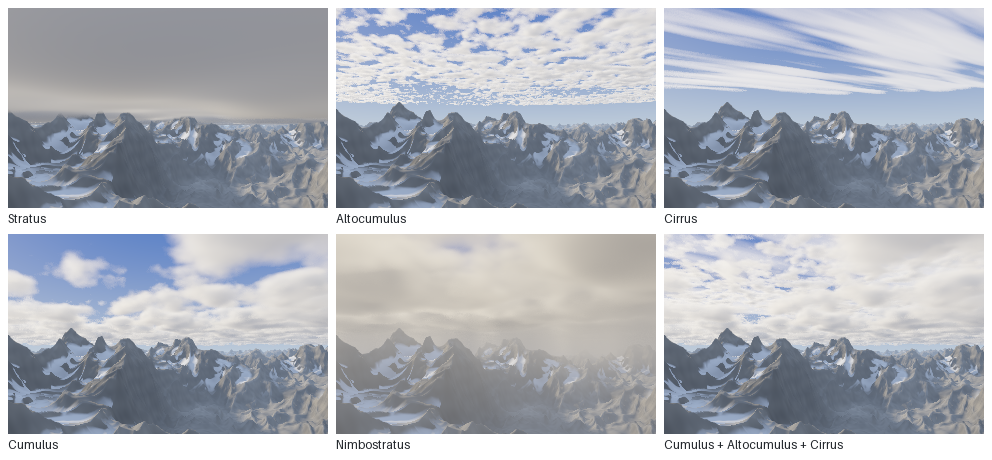
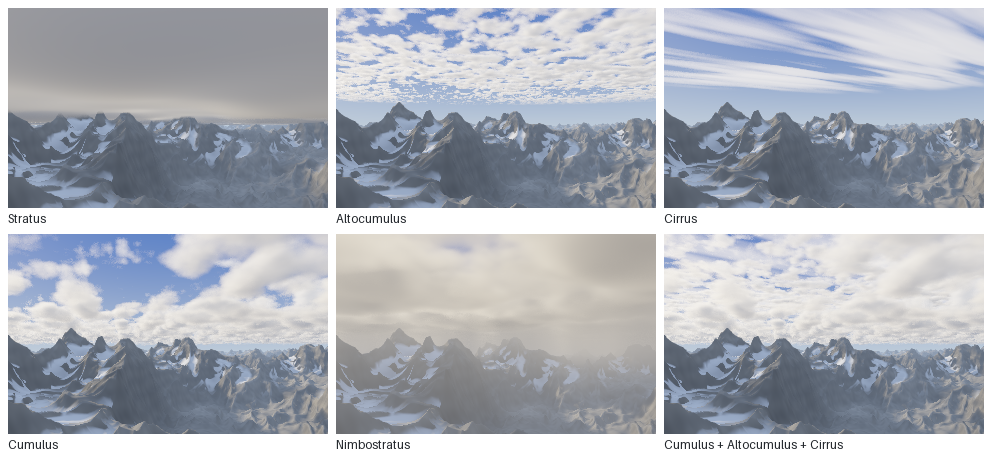
Review fixes: layer shadows on the ground, billow cumulus, horizon fade, overlap check, bind once (#14)
- fc_terrain: with a layer list, cloud shadows come from fc-cloud-shadow
  (every layer); the single layer keeps its old probe.
- /Cumulus uses billow noise, Threshold 0.41 and Gain 12, matched to the
  gallery layer's cover from measured noise statistics.
- Layer lists fade each sample over the last 30% of TMax: no hard line
  where a high layer reaches the end of the march.
- Cirrus drops Shear (it moved streaks along their own length); docs fixed.
- fc-clouds-compile rejects overlapping bands, rain included.
- Layers are compiled to bindings once; the single layer is bound once at
  first use instead of on every fc-density call.
- Shape gets the octave count: x y z oct -> dd.
- Contact sheet re-rendered; alt text and comments fixed.

Claude-Session: https://claude.ai/code/session_01SjY16JjyTvuME1oVQVUxjG

diff --git a/docs/techniques.html b/docs/techniques.html
@@ -365,14 +365,14 @@ haze  = 1 − e^(−depth / HazeDist)        colour = mix(surface, HazeCol, haze
 <h3>Layers and types</h3>
 <p>The sky can hold several layers (<code>CloudLayers</code>, issue #14): a list of presets, <code>[/Cumulus /Altocumulus /Cirrus]</code>, or dicts that start from a preset and override keys. Each layer is the same model with its own band, height profile, noise kind and scale, threshold, coverage, extinction, step count and ambient colours, plus three things the single layer didn't have:</p>
 <ul>
-  <li><strong>Wind and shear.</strong> Before the noise is sampled, the point is turned so <em>x</em> runs along <code>Wind</code>, and shifted along it by <code>Shear</code> per unit of height, so the pattern leans with height. <code>Stretch</code> then scales the three noise coordinates separately. Cirrus uses 0.1 along the wind, so one noise cell becomes a streak ten times longer than it is wide, and a shear of 0.5 so the streaks fall diagonally, the way ice crystals trail below the cloud that made them.</li>
-  <li><strong>Billow noise.</strong> <code>/Noise /Billow</code> folds each octave of value noise, <code>|2n − 1|</code>, before summing: rounded lumps meeting in creases, the cauliflower of a cumulus top. <code>/Value</code>, the smooth fBm, is the default and what the gallery pieces use.</li>
+  <li><strong>Wind and shear.</strong> Before the noise is sampled, the point is turned so <em>x</em> runs along <code>Wind</code>, and shifted along it by <code>Shear</code> world units per unit of height, so the pattern leans with height. <code>Stretch</code> then scales the three noise coordinates separately. Cirrus uses 0.1 along the wind, so one noise cell becomes a streak ten times longer than it is wide. (Shear moves a streak along its own length, so cirrus doesn't use it; it is there for leaning towers.)</li>
+  <li><strong>Billow noise.</strong> <code>/Noise /Billow</code> folds each octave of value noise, <code>|2n − 1|</code>, before summing: rounded lumps meeting in creases, the cauliflower of a cumulus top. The <code>/Cumulus</code> preset uses it. Folded fBm sits lower and spreads wider than plain fBm (mean 0.30 and standard deviation 0.13, against 0.50 and 0.11, measured), so the preset's gain (12) is the gallery layer's scaled by the ratio of the deviations, and its threshold the gallery layer's moved by the same number of deviations (0.38), then raised to 0.41 by eye: the folded noise's long upper tail gave more cover. <code>/Value</code>, the smooth fBm, is the base and what the gallery pieces use.</li>
   <li><strong>Rain.</strong> A layer with <code>Rain</code> above 0 is marched down to that far below its base. There the density is the cloud's a quarter of the way up the band, scaled by <code>RainDens</code> and fading linearly to the ground, so the overcast's thick parts hang vertical shafts beneath them.</li>
 </ul>
-<p>The march (<code>fc-clouds</code>) binds one layer's parameters to plain names, marches the ray through that band, and goes on to the next, carrying the transmittance; a rising ray takes the layers from the lowest up, a falling one from the highest down, and the whole thing stops once under 1% of the light would get through. Nothing is sorted per ray, so the bands must not overlap. Each layer's sun probes look only inside that layer: a cumulus under a thin cirrus is not shaded by it, which is cheap and, for thin upper layers, right enough. With <code>CloudLayers</code> unset, the old single layer is bound from the <code>Cloud*</code> settings and marched exactly as before; the gallery renders are pixel-identical.</p>
-<p>For the ground and for sun shafts, <code>fc-cloud-shadow</code> gives the sunlight reaching a point through every layer above it from one density probe per layer, the estimate the terrain's cloud shadows already use. The terrain itself still takes its shadows from one <code>fc-density</code> probe at the middle of <code>CloudLo</code>–<code>CloudHi</code>, so with a layer list only the layers crossing that height shade the ground; switching it to <code>fc-cloud-shadow</code> is left to a change in <code>fc_terrain.ps</code>.</p>
+<p>The march (<code>fc-clouds</code>) binds one layer's parameters to plain names, marches the ray through that band, and goes on to the next, carrying the transmittance. Each layer's parameters are gathered into a dict of those names once, when the list is compiled, so binding a layer is one <code>def</code> per name; a rising ray takes the layers from the lowest up, a falling one from the highest down, and the whole thing stops once under 1% of the light would get through. Nothing is sorted per ray, so the bands (rain included) must not overlap; compiling checks this. In a layer list each sample's opacity fades linearly over the last 30% of <code>TMax</code>, so a high layer that reaches the edge of the march thins into the sky instead of stopping in a straight line. Each layer's sun probes look only inside that layer: a cumulus under a thin cirrus is not shaded by it, which is cheap and, for thin upper layers, right enough. With <code>CloudLayers</code> unset, the old single layer is bound once from the <code>Cloud*</code> settings and marched exactly as before; the gallery renders are pixel-identical.</p>
+<p>For the ground and for sun shafts, <code>fc-cloud-shadow</code> gives the sunlight reaching a point through every layer above it from one density probe per layer, the estimate the terrain's cloud shadows already used for the single layer. With a layer list the terrain shades the ground with it (the single layer keeps its old probe). Only the direct sun is shaded: under a stratus sheet about 90% of the sunlight is blocked, but the terrain's sky ambient is unchanged, so an overcast darkens the ground only a few percent. Dimming the ambient under cover is a separate change to the terrain's lighting.</p>
 <figure>
-  <img src="techniques/cloud_types.png" alt="Six panels of the same mountain scene: stratus hugging the peaks; small altocumulus cells; streaked cirrus; cumulus; a dark nimbostratus overcast with rain shafts; and all three fair-weather layers at once." loading="lazy">
+  <img src="techniques/cloud_types.png" alt="Six panels of the same mountain scene: a flat grey stratus overcast above the peaks; a field of small altocumulus cells thinning toward the horizon; long diagonal cirrus streaks; billowy cumulus; a dull nimbostratus overcast with faint rain over the far peaks; and cumulus, altocumulus and cirrus together." loading="lazy">
   <figcaption>The presets over <em>Mountains</em> (<code>docs/techniques/cloud_types.ps</code>, 320×200 each): stratus, altocumulus, cirrus, cumulus, nimbostratus, and a layered sky of cumulus, altocumulus and cirrus.</figcaption>
 </figure>
 

diff --git a/docs/settings.md b/docs/settings.md
@@ -98,29 +98,35 @@ preset and overrides some of its keys:
 } ifelse
 ```
 
-The presets are `/Cumulus` (the gallery pieces' layer: 60–88, `Threshold`
-0.57, `CoverAmp` 0.45), `/Stratus`, `/Altocumulus`, `/Cirrus`,
-`/Nimbostratus`, and `/Default`, which is the single layer the `Cloud*`
-settings describe (so `[/Default /Cirrus]` keeps a piece's clouds and adds
+The presets are `/Cumulus` (the gallery pieces' band, 60–88, with billow
+noise: `Noise /Billow`, `Threshold` 0.41, `Gain` 12), `/Stratus`,
+`/Altocumulus`, `/Cirrus`, `/Nimbostratus`, and `/Default`, which is the
+single layer the `Cloud*` settings describe (so `[/Default /Cirrus]` keeps a piece's clouds and adds
 cirrus above them). A dict without `/Type` starts from `/Default`. A
 misspelt preset or key stops the job with an `undefined` error naming it,
 and so does a layer with `Hi` not above `Lo` or with `Steps`, `DensOct` or
 `ShadOct` below 1. The list is compiled the first time a ray needs it: a
-piece that changes `CloudLayers` after that calls `fc-clouds-compile`.
-Layers should not overlap in height: each is marched through its own band,
-and a ray's bands are taken in height order. The sun probes of a layer see
-only that layer, so a layer isn't shaded by another above it.
+piece that changes `CloudLayers` or a `Cloud*` setting after that calls
+`fc-clouds-compile`. Layers must not overlap in height: each is marched
+through its own band, and a ray's bands are taken in height order. A
+layer's band runs from `Lo − Rain` (its rain counts) to `Hi`, and a band
+that starts below the `Hi` of the layer under it stops the job with an
+`undefined` error (`CloudLayers-overlap`). The sun probes of a layer see
+only that layer, so a layer isn't shaded by another above it. In a layer
+list, each layer's samples fade out over the last 30% of `TMax`, so a layer
+that reaches the horizon thins out instead of ending in a hard line (the
+single layer, `CloudLayers` null, keeps its old cut-off).
 
-| Key | Cumulus | What it does |
+| Key | Base | What it does |
 |---|---|---|
 | `Lo`, `Hi` | 60, 88 | Base and top. |
 | `Profile` | [6 1.6] | Height profile `min(a·h, 1)·min(b·(1 − h), 1)` over the band: `a` rounds the base, `b` the top. Larger is flatter. |
 | `ProfAmp` | 0.35 | How much the profile raises the threshold: `(1 − profile)·ProfAmp`. |
-| `Noise` | /Value | `/Value` is fBm; `/Billow` folds each octave (`abs(2n − 1)`) into rounded lumps with creases. |
+| `Noise` | /Value | `/Value` is fBm; `/Billow` folds each octave (`abs(2n − 1)`) into rounded lumps with creases. Billow fBm is lower and wider (mean 0.30, sd 0.13, against 0.50 and 0.11), so it wants a lower `Threshold`. |
 | `Scale` | 0.045 | 1 / billow size, like `NoiseScale`. |
 | `Stretch` | [1 1.6 1] | Multiplies the noise coordinates along the wind, up, and across the wind. Below 1 stretches: cirrus uses 0.1 along the wind. |
 | `Wind` | 0 | Degrees from +x (0 is across the default view, 90 is away from the camera): the direction streaks run. |
-| `Shear` | 0 | Streaks lean with height: the pattern at height `h` above the base is the base's pattern moved `Shear·h` back against `Wind`, so a positive shear trails the tops upwind (cirrus fall streaks). |
+| `Shear` | 0 | The pattern leans with height, in world units: at height `h` above the base it is the base's pattern moved `Shear·h` against `Wind`. Invisible on streaks stretched along the wind (no preset uses it); meant for leaning towers and anvils. |
 | `Threshold` | 0.57 | Density cut-off, like `Threshold`. |
 | `CoverAmp`, `CoverScale` | 0.45, 0.0045 | The coverage map, like `CoverAmp` and `CoverScale`. |
 | `Gain` | 14 | Density per unit of noise above the threshold. Lower is softer and more translucent. |
@@ -130,16 +136,18 @@ only that layer, so a layer isn't shaded by another above it.
 | `AmbTop`, `AmbBot` | as the settings | Ambient at the top and bottom (sRGB). |
 | `Rain` | 0 | If above 0, rain shafts reach this far below the base: the cloud a quarter of the way up the band, in vertical columns that thin toward the ground. Extends the march. |
 | `RainDens` | 0.15 | Their density, as a fraction of the cloud's. |
-| `Shape` | null | A procedure `x y z → dd` added to the density before the gain: a positive value adds cloud, a negative one cuts it. Only called inside the band (`Lo < y < Hi`), so a placed object needs a band tall enough to hold it. For placed objects such as a cumulonimbus (#15). Costs a call per sample. |
+| `Shape` | null | A procedure `x y z oct → dd` (`oct`: the octaves the sample wants, fewer with distance) added to the density before the gain: a positive value adds cloud, a negative one cuts it. Only called inside the band (`Lo < y < Hi`), so a placed object needs a band tall enough to hold it. For placed objects such as a cumulonimbus (#15). Costs a call per sample. |
 
-Each preset's own values are in `FcClPresets` in `lib/fc_clouds.ps`; the
-ones not listed there come from `/Cumulus`.
+The Base column is where every preset starts (the gallery pieces' layer,
+value noise); each preset's own values are in `FcClPresets` in
+`lib/fc_clouds.ps`.
 
 `x y z fc-cloud-shadow` gives the sunlight that reaches a point through
 every layer above it (one density probe per layer, no march), for ground
-shadows and sun shafts. `fc_terrain`'s `CloudShadowsOn` still probes
-`fc-density` once, at the middle of `CloudLo`–`CloudHi`, so with a layer
-list the ground is shaded by whatever layers cross that height.
+shadows and sun shafts. `fc_terrain`'s `CloudShadowsOn` uses it with a
+layer list; with `CloudLayers` null it keeps its old single probe at the
+middle of `CloudLo`–`CloudHi`. Only the direct sun is shaded, not the sky ambient,
+so an overcast darkens the ground only a little.
 
 ## Terrain shape (`fc_terrain.ps`)
 
